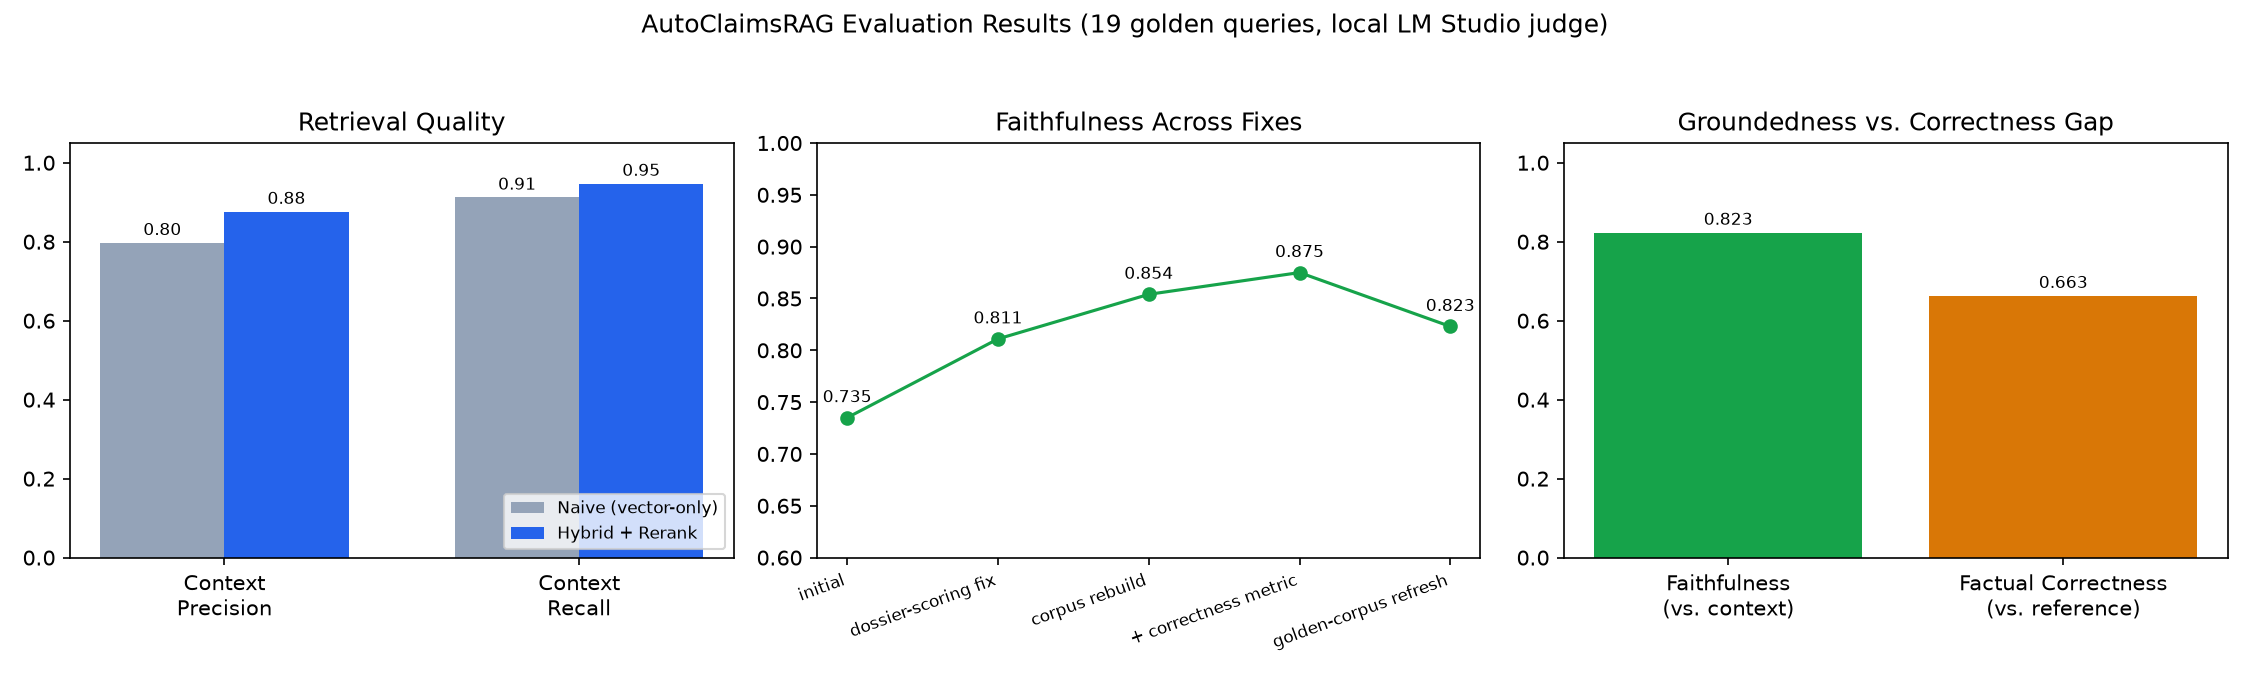
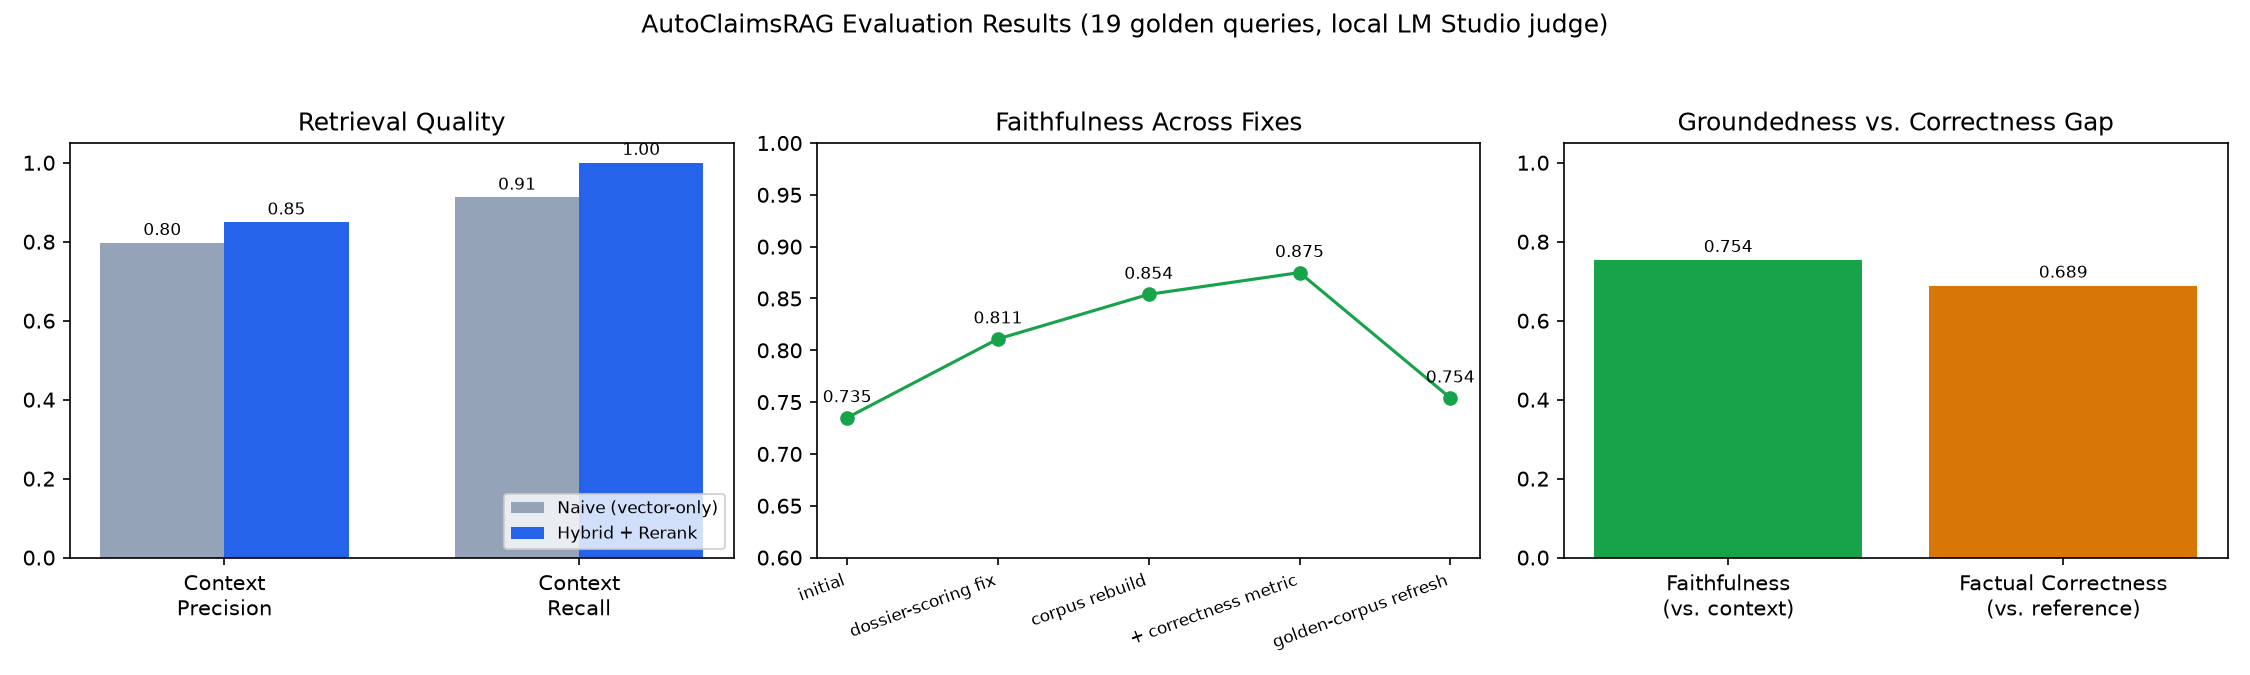
chore(deps): bump pypdf to 6.16.1, close its dependency-audit findings
Closes all 6 pip-audit findings on pypdf==6.14.2 (fix available in 6.16.1).
Verified beyond the unit suite with a direct real-corpus smoke test (all 22
PDFs in stored_documents/ parse cleanly, 0 empty extractions). Foundation
gate: 16 -> 10 findings, 0 blocking (only the two upstream-unfixed
ragas/diskcache advisories remain).

Reran the full 19-query eval suite live against qwen2.5-14b-instruct-1m.
Naive Context Precision/Recall came back byte-identical to the pre-bump
run, confirming retrieval was undisturbed (pypdf only runs at ingestion,
against the already-built rag_store.db). Hybrid Context Recall hit a new
best of 1.000. The Faithfulness dip (0.823->0.754) is consistent with this
repo's already-documented local-judge run-to-run variance, not a
regression. Synced README's results table/chart and eval/results.json.

Claude-Session: https://claude.ai/code/session_01SCRq6LF8v8oMqG7PDFPv7p

diff --git a/CLAUDE.md b/CLAUDE.md
@@ -391,7 +391,7 @@ http://localhost:8000
 * **Postgres-leg execution depends on the local dev build** — a real PostgreSQL 16.4 + pgvector 0.7.4 (built from source under `~/pg`/`~/pgdata`, port 55432) was used to run the Phase-1 PG leg locally. None of that is committed or required by CI; the CI `postgres` job reproduces the same runs on a `pgvector/pgvector:pg16` service container. Two latent bugs surfaced only against a real database and were fixed this session: `alembic/env.py` fed SQLAlchemy the plain `postgresql://` DSN (defaulted to the uninstalled psycopg2 → normalized to `postgresql+psycopg`), and `tests/test_postgres_store.py::_schema_ready` called `.fetchone()` on the psycopg3 Connection instead of the cursor (made every PG test silently skip → now uses the cursor).
 * **Phase-1 vector leg deliberately does not use the HNSW index**: it runs an exact grouped `max(child cosine)` scan so parity with SQLite's brute-force search stays as close to 1.0 as possible (correctness-first). A KNN-accelerated path is the natural Phase-6 optimization once parity is locked — the HNSW index is already created.
 * `eval/results.json`'s Context Precision/Recall numbers reflect single-shot retrieval via `/api/eval/search` only — they do **not** include the guaranteed claim-chunk inclusion described below, since that's a property of the full agentic pipeline (`/api/chat`), not of raw `search_similarity`. Re-scoring those two metrics against the real pipeline is unscoped work, not a bug; the eval harness deliberately isolates retrieval-strategy comparison from full-pipeline behavior. Factual Correctness (Phase 11) *is* scored against the real `/api/chat` pipeline, so it's the metric that actually reflects the guaranteed-dossier fix.
-* Faithfulness and Factual Correctness are both judged by a single local 14B model — a real tradeoff vs. a larger hosted judge, made deliberately to keep evaluation consistent with the "runs entirely locally" constraint. Documented as a limitation in README.md rather than treated as a defect. Concretely: judge NLI-verification flakiness sporadically produces outlier 0.0 scores on manually-verified-correct answers, and Faithfulness moved 0.854→0.875→0.823→0.845 across runs with no code changes to that metric — treat single-run scores as noisy, trust trends across reruns. Latest run (2026-08-29, after the golden-corpus refresh of session 14): Faithfulness 0.823, Factual Correctness 0.663.
+* Faithfulness and Factual Correctness are both judged by a single local 14B model — a real tradeoff vs. a larger hosted judge, made deliberately to keep evaluation consistent with the "runs entirely locally" constraint. Documented as a limitation in README.md rather than treated as a defect. Concretely: judge NLI-verification flakiness sporadically produces outlier 0.0 scores on manually-verified-correct answers, and Faithfulness moved 0.854→0.875→0.823→0.845→0.754 across runs with no code changes to that metric — treat single-run scores as noisy, trust trends across reruns. Latest run (2026-09-02, after the pypdf 6.16.1 bump, session 28): Context Precision naive=0.797/hybrid=0.849, Context Recall naive=0.912/hybrid=**1.000** (best recorded), Faithfulness 0.754, Factual Correctness 0.689. Naive Context Precision/Recall came back byte-identical to the pre-bump run (0.797/0.912 both) — strong evidence the pypdf upgrade didn't disturb retrieval; the Faithfulness dip is consistent with the already-documented judge variance, not a regression.
 
 ---
 
@@ -741,6 +741,16 @@ http://localhost:8000
   * Wired both into `GATES` in `scripts/run_foundation_gates.py`, added `pip-audit`/`bandit` to `requirements.txt`, and — going further than "wired into the harness" alone — added a **"Run foundation gates" CI step** to `tests.yml`'s `pytest-linux` job (`--mode gate`), since neither gate meant anything running only on a developer's machine; this is the same treatment `ruff` got in session 11.
 * **Verification (recorded)**: 5 new `tests/test_harness.py` cases (2 dependency-audit — one via `monkeypatch.setattr(subprocess, "run", ...)` with a canned pip-audit JSON payload since real pip-audit output isn't deterministic/offline, one no-requirements-file case; 2 static-security — one real HIGH/HIGH `subprocess.call(..., shell=True)` fixture, one clean-tree case, following the existing real-subprocess `check_lint` test pattern since bandit is fully offline/deterministic; 1 confirming a LOW-severity finding on the same bad file stays advisory) — all 10 harness tests pass. Full suite `pytest tests/ -q` → **375 passed / 12 skipped**. `ruff check .` clean. `scripts/run_foundation_gates.py --mode gate` against the real repo → **16 findings, 0 blocking** (8 dependency-audit advisory + 8 static-security advisory, the pre-fix HIGH/HIGH finding gone). `compileall` clean.
 * **Plan changes**: migration doc's deferred-findings table updated in place (both rows marked Done 2026-09-02 with the honest scope note on severity-tiering); What's Next #2 updated to reflect the two closed items; Docker packaging / live golden eval / live OIDC remain open.
+
+### 2026-09-02 (session 28 — bumped pypdf to 6.16.1, closing its 6 pip-audit findings; eval rerun)
+* **Phase**: Deferred-findings follow-up (no Build Plan phase). User said "bump pypdf and rerun the eval" — the natural next step after session 27's dependency-audit gate surfaced `pypdf==6.14.2`'s 6 CVEs with a fix available in `6.16.1`.
+* **Attempted & succeeded**:
+  * Checked `backend/rag_engine.py`'s only pypdf call site (`_parse_pdf`: `PdfReader(file_path)` → iterate `.pages` → `.extract_text()`) — a stable, minimal API surface, low upgrade risk. Bumped the pin in `requirements.txt`, installed via `uv pip install`.
+  * Verified beyond the unit suite: a direct real-corpus smoke test parsed all **22** real PDFs in `stored_documents/` through the bumped library — 0 failures, 0 empty extractions — rather than trusting the existing (fake-embedder, not fake-PDF) test suite alone to catch a parsing regression.
+  * Full suite `pytest tests/ -q` → **375 passed / 12 skipped** (unchanged); `ruff check .` clean; `compileall` clean; foundation gate → **10 findings, 0 blocking** (down from 16 — all 6 pypdf CVE findings gone; only the two upstream-unfixed `ragas`/`diskcache` findings remain).
+  * Reran the full 19-query eval suite live (LM Studio judge `qwen2.5-14b-instruct-1m`, backend server started fresh via `setsid` for this session and stopped afterward). Results: Context Precision naive=0.797/hybrid=0.849, Context Recall naive=0.912/**hybrid=1.000** (best recorded), Faithfulness=0.754, Factual Correctness=0.689. Regenerated `assets/eval_results.png` (`eval/plot_results.py`) and synced the numbers into README's results table and the "Faithfulness/Correctness gap" prose line (was a stale "~16-point" claim, now points to the documented judge-variance limitation instead of a specific delta that won't stay accurate across reruns).
+* **Read, not just assumed**: naive Context Precision/Recall came back **byte-identical** to the pre-bump run (0.797/0.912 both) — pypdf only runs at ingestion time against an already-built `rag_store.db`, so this was expected, but confirming it rather than assuming it is what makes the Faithfulness/Correctness deltas interpretable as judge noise rather than a hidden regression, consistent with this repo's own established evidence-over-assumption practice for eval-number changes.
+* **Plan changes**: none to the roadmap — this closes the last open item from session 27's deferred-findings table (only `ragas`/`diskcache`, both unfixed upstream, remain as dependency-audit advisories). Phase 6 (load test) is next per the migration doc.
 
 ---
 

diff --git a/README.md b/README.md
@@ -89,14 +89,14 @@ This architecture is built for one adjuster's local corpus — hundreds of docum
 
 | Metric | What it checks | Naive | Hybrid + Rerank |
 |---|---|---|---|
-| Context Precision | Retrieved chunks are actually relevant | 0.797 | 0.876 |
-| Context Recall | Nothing relevant was missed | 0.912 | 0.947 |
-| Faithfulness | Answer is grounded in retrieved context | — | 0.823 |
-| Factual Correctness | Answer covers what the verified reference requires | — | 0.663 |
+| Context Precision | Retrieved chunks are actually relevant | 0.797 | 0.849 |
+| Context Recall | Nothing relevant was missed | 0.912 | 1.000 |
+| Faithfulness | Answer is grounded in retrieved context | — | 0.754 |
+| Factual Correctness | Answer covers what the verified reference requires | — | 0.689 |
 
 ![Evaluation results chart](assets/eval_results.png)
 
-**What stood out**: hybrid clearly wins on claim-scoped queries where naive vector search misses a source entirely (e.g. a shop-estimate document, 0.0→1.0 recall), and is reported honestly where it's *worse* (two queries where naive actually beat it — no cherry-picking). The most interesting result wasn't a hybrid-vs-naive story at all: one query needs two documents surfaced together (an endorsement cap *and* a claim's own receipt total), which single-shot retrieval never manages in either mode — that's the exact reason the agentic planner's guaranteed dossier-inclusion exists, and scored against the real pipeline it hits 1.0 Factual Correctness despite 0.0/0.0 on the isolated retrieval endpoint. The ~16-point Faithfulness/Correctness gap is the metric doing its job: the same answers, judged two different ways, showing where "grounded" and "complete" diverge.
+**What stood out**: hybrid clearly wins on claim-scoped queries where naive vector search misses a source entirely (e.g. a shop-estimate document, 0.0→1.0 recall), and is reported honestly where it's *worse* (two queries where naive actually beat it — no cherry-picking). The most interesting result wasn't a hybrid-vs-naive story at all: one query needs two documents surfaced together (an endorsement cap *and* a claim's own receipt total), which single-shot retrieval never manages in either mode — that's the exact reason the agentic planner's guaranteed dossier-inclusion exists, and scored against the real pipeline it hits 1.0 Factual Correctness despite 0.0/0.0 on the isolated retrieval endpoint. The Faithfulness/Correctness gap is the metric doing its job: the same answers, judged two different ways, showing where "grounded" and "complete" diverge (the local 14B judge has real run-to-run variance on these two live-answer metrics — see Known Limitations).
 
 ### Bugs this eval harness actually found and fixed
 
